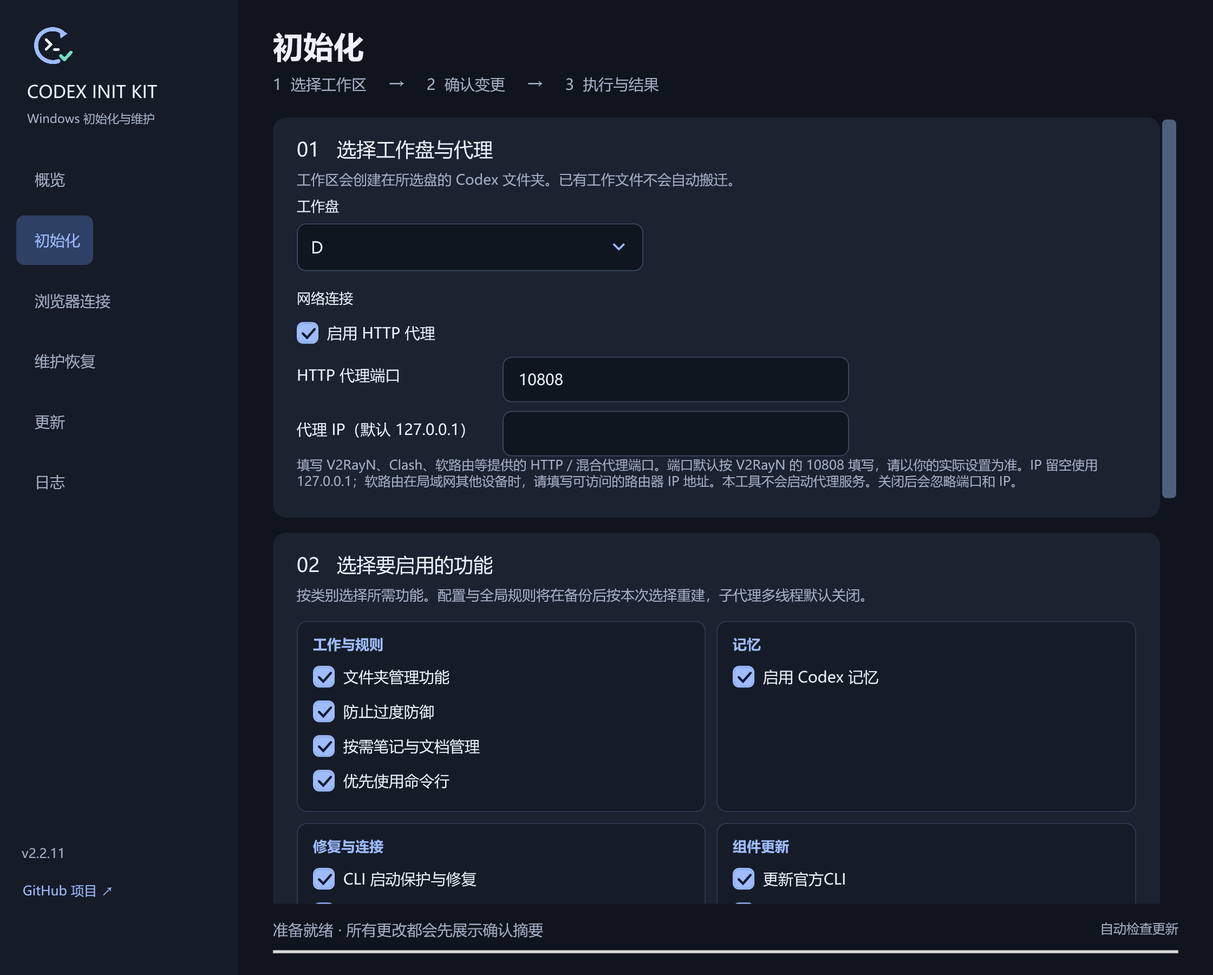
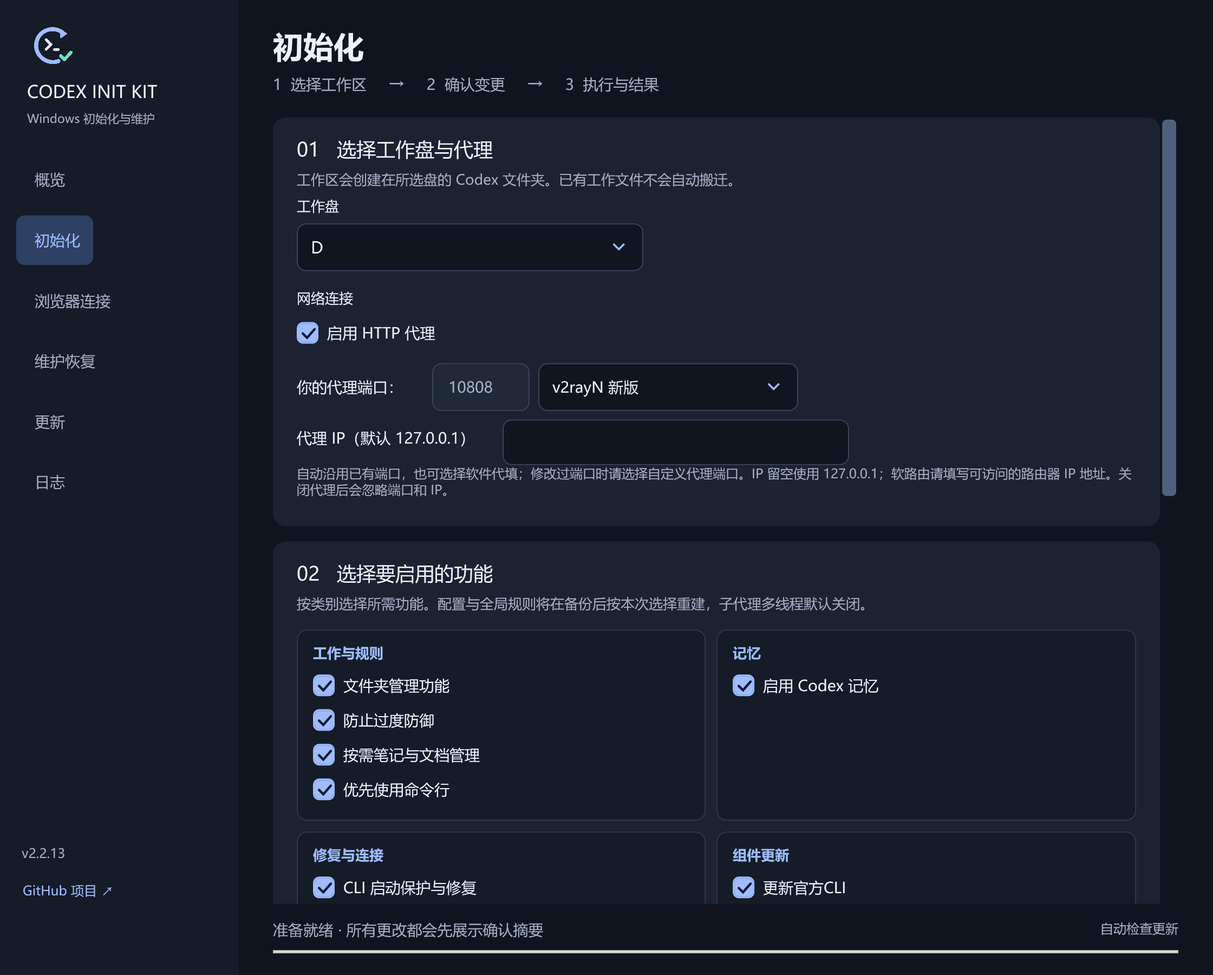
feat: release v2.2.13 proxy port presets and inheritance

diff --git a/app/MainWindow.cs b/app/MainWindow.cs
@@ -30,6 +30,9 @@ public class MainWindow : Window {
     readonly List<Button> navigation=new List<Button>();
     readonly ComboBox drive=new ComboBox();
     readonly TextBox port=new TextBox();
+    readonly ComboBox proxyPortPreset=new ComboBox();
+    readonly TextBlock proxyPortNotice=new TextBlock();
+    string customProxyPort="";
     readonly TextBox proxyHost=new TextBox();
     readonly CheckBox guard=new CheckBox();
     readonly CheckBox proxyEnabled=new CheckBox(),folderManagement=new CheckBox(),subagents=new CheckBox(),cuaRepair=new CheckBox();
@@ -95,7 +98,7 @@ public class MainWindow : Window {
         ApplyCliDetection(new Dictionary<string,object>{{"runtimeMode","OfficialStandalone"}});if(cliStandalone.IsChecked!=true||cliNative.IsChecked==true||Convert.ToString(Options()["cliMode"])!="auto"||!InitSummary().Contains("初始化后使用的 CLI：官方独立 CLI"))throw new InvalidDataException("Detected standalone CLI was not selected automatically");
         cliNative.IsChecked=true;ApplyCliDetection(new Dictionary<string,object>{{"runtimeMode","OfficialStandalone"}});if(cliNative.IsChecked!=true||Convert.ToString(Options()["cliMode"])!="desktop-native")throw new InvalidDataException("Status refresh replaced the manual CLI choice");Navigate("概览");Navigate("初始化");if(cliNative.IsChecked!=true)throw new InvalidDataException("Navigation lost the selected CLI");
         cliChoiceManual=false;ApplyCliDetection(new Dictionary<string,object>{{"runtimeMode","Unknown"}});rejected=false;try{RequireCliChoice();}catch(InvalidOperationException){rejected=true;}if(!rejected||cliNative.IsChecked==true||cliStandalone.IsChecked==true)throw new InvalidDataException("Unknown CLI mode silently selected a default");cliStandalone.IsChecked=true;RequireCliChoice();if(Convert.ToString(Options()["cliMode"])!="official-standalone")throw new InvalidDataException("Manual selection after unknown detection failed");ResetCliChoice();
-        Navigate("浏览器连接");var browserSettings=(StackPanel)((Border)content.Children[1]).Child;var browserInputs=browserSettings.Children.OfType<TextBox>().ToArray();var browserToggle=browserSettings.Children.OfType<CheckBox>().First();var browserButtons=browserSettings.Children.OfType<WrapPanel>().SelectMany(x=>x.Children.OfType<Button>()).Select(x=>Convert.ToString(x.Content)).ToArray();if(!browserButtons.Contains("修复并启动 Codex")||browserInputs.Length!=2)throw new InvalidOperationException("Browser startup entry is missing");browserInputs[0].Text="192.168.5.8";browserInputs[1].Text="7890";if(ProxyHost()!="192.168.5.8"||Port()!=7890)throw new InvalidOperationException("Browser proxy settings did not synchronize");browserToggle.IsChecked=false;if(proxyEnabled.IsChecked!=false)throw new InvalidOperationException("Browser proxy switch did not synchronize");browserToggle.IsChecked=true;proxyHost.Text="";port.Text="10808";
+        Navigate("浏览器连接");var browserSettings=(StackPanel)((Border)content.Children[1]).Child;var browserButtons=browserSettings.Children.OfType<WrapPanel>().SelectMany(x=>x.Children.OfType<Button>()).Select(x=>Convert.ToString(x.Content)).ToArray();if(!browserButtons.Contains("修复并启动 Codex")||!browserSettings.IsAncestorOf(port)||!browserSettings.IsAncestorOf(proxyPortPreset))throw new InvalidOperationException("Browser startup entry or proxy inputs are missing");proxyHost.Text="192.168.5.8";proxyPortPreset.SelectedIndex=5;if(ProxyHost()!="192.168.5.8"||Port()!=7890||!port.IsReadOnly)throw new InvalidOperationException("Browser proxy settings did not synchronize");proxyEnabled.IsChecked=false;if(port.IsEnabled||proxyPortPreset.IsEnabled)throw new InvalidOperationException("Browser proxy switch did not disable its inputs");proxyEnabled.IsChecked=true;proxyHost.Text="";proxyPortPreset.SelectedIndex=0;
         VerifyMaintenanceModes();
         memories.IsChecked=false;if((bool)Options()["memories"]||!InitSummary().Contains("关闭，保留已有记忆文件"))throw new InvalidDataException("Memory selection was not preserved");memories.IsChecked=true;
         if(!githubMirrors.IsChecked.Value||NetworkOptions().customGithubMirror.Length!=0)throw new InvalidDataException("GitHub mirror defaults changed");
@@ -157,7 +160,19 @@ public class MainWindow : Window {
         drive.ItemsSource=DriveInfo.GetDrives().Where(x=>x.DriveType==DriveType.Fixed && x.IsReady).Select(x=>x.Name.Substring(0,1)).ToArray(); drive.SelectedItem="D"; if(drive.SelectedIndex<0) drive.SelectedIndex=0;
         drive.Style=(Style)Resources["KitCombo"];drive.FontSize=15;drive.Width=320;drive.HorizontalAlignment=HorizontalAlignment.Left;
         foreach(var input in new[]{port,proxyHost})input.Style=(Style)Resources["KitInput"];
-        port.Text="10808";port.Width=320;port.HorizontalAlignment=HorizontalAlignment.Left;
+        port.Width=90;port.Height=44;port.MaxLength=5;port.HorizontalAlignment=HorizontalAlignment.Left;
+        proxyPortPreset.Style=(Style)Resources["KitCombo"];proxyPortPreset.Width=240;
+        proxyPortPreset.ItemsSource=ProxyPortSettings.Presets;
+        proxyPortNotice.Foreground=B("#E9C779");proxyPortNotice.FontSize=12;proxyPortNotice.TextWrapping=TextWrapping.Wrap;proxyPortNotice.Margin=new Thickness(0,0,0,8);proxyPortNotice.Visibility=Visibility.Collapsed;
+        proxyPortPreset.SelectionChanged+=(s,e)=>{
+            var selected=(ProxyPortPreset)proxyPortPreset.SelectedItem;
+            port.IsReadOnly=selected.Port!=0;
+            port.Text=selected.Port==0?customProxyPort:selected.Port.ToString();
+            port.Background=port.IsReadOnly?B("#202938"):B("#101620");port.Foreground=port.IsReadOnly?MutedBrush:TextBrush;
+            proxyPortNotice.Visibility=Visibility.Collapsed;
+        };
+        port.TextChanged+=(s,e)=>{if(!port.IsReadOnly){customProxyPort=port.Text;proxyPortNotice.Visibility=Visibility.Collapsed;}};
+        proxyPortPreset.SelectedIndex=0;
         proxyHost.Text="";proxyHost.Width=320;proxyHost.HorizontalAlignment=HorizontalAlignment.Left;proxyHost.ToolTip="留空使用 127.0.0.1。软路由在局域网其他设备时，请填写可访问的路由器 IP 地址；本工具不会启动代理服务。";
         var checks=new[]{proxyEnabled,folderManagement,antiOverDefense,workJournal,commandLineFirst,memories,guard,cuaRepair,browserRepair,officialCliUpdate,desktopUpdate,subagents};var labels=new[]{"启用 HTTP 代理","文件夹管理功能","防止过度防御","按需笔记与文档管理","优先使用命令行","启用 Codex 记忆","CLI 启动保护与修复","CUA 检查与修复","浏览器链接修复","更新官方CLI","更新桌面版（含原生CLI）","子代理多线程"};for(int i=0;i<checks.Length;i++){checks[i].Style=(Style)Resources["KitCheck"];checks[i].Content=labels[i];checks[i].IsChecked=checks[i]!=subagents;}
         cliNative.Content="桌面版原生 CLI";cliStandalone.Content="官方独立 CLI";foreach(var choice in new[]{cliNative,cliStandalone}){choice.GroupName="InitializationCliMode";choice.Style=(Style)Resources["KitCliChoice"];choice.Checked+=(s,e)=>{if(!applyingCliDetection){cliChoiceManual=true;UpdateCliDetectionHint();}};choice.Click+=(s,e)=>{cliChoiceManual=true;UpdateCliDetectionHint();};}
@@ -173,7 +188,7 @@ public class MainWindow : Window {
         githubMirrors.IsChecked=network.githubMirrorEnabled;githubCustomMirror.Text=network.customGithubMirror;githubCustomMirror.IsEnabled=network.githubMirrorEnabled;
         githubMirrors.Checked+=(a,b)=>githubCustomMirror.IsEnabled=true;githubMirrors.Unchecked+=(a,b)=>githubCustomMirror.IsEnabled=false;
         githubLogView.IsReadOnly=true;githubLogView.TextWrapping=TextWrapping.Wrap;githubLogView.Height=150;githubLogView.VerticalScrollBarVisibility=ScrollBarVisibility.Auto;githubLogView.Background=B("#101620");githubLogView.Foreground=TextBrush;githubLogView.BorderThickness=new Thickness(0);githubLogView.Padding=new Thickness(10);
-        proxyEnabled.Checked+=(s,e)=>{port.IsEnabled=true;proxyHost.IsEnabled=true;};proxyEnabled.Unchecked+=(s,e)=>{port.IsEnabled=false;proxyHost.IsEnabled=false;};
+        proxyEnabled.Checked+=(s,e)=>{proxyPortPreset.IsEnabled=port.IsEnabled=proxyHost.IsEnabled=true;};proxyEnabled.Unchecked+=(s,e)=>{proxyPortPreset.IsEnabled=port.IsEnabled=proxyHost.IsEnabled=false;};
         parentEffort.Style=(Style)Resources["KitCombo"];childEffort.Style=(Style)Resources["KitCombo"];foreach(var input in new[]{parentModel,childModel,parentEffort,childEffort})input.Margin=new Thickness(0,0,0,10);
         var effortText=new FrameworkElementFactory(typeof(TextBlock));effortText.SetBinding(TextBlock.TextProperty,new System.Windows.Data.Binding{Converter=new EffortLabels()});var effortTemplate=new DataTemplate{VisualTree=effortText};parentEffort.ItemTemplate=effortTemplate;childEffort.ItemTemplate=effortTemplate;
         parentEffort.ItemsSource=ModelCatalog.CommonEfforts;parentEffort.SelectedItem="medium";childEffort.ItemsSource=ModelCatalog.CommonEfforts;childEffort.SelectedItem="medium";
@@ -185,11 +200,34 @@ public class MainWindow : Window {
         modelCheck.Foreground=MutedBrush;modelCheck.TextWrapping=TextWrapping.Wrap;modelCheck.Margin=new Thickness(0,8,0,12);
         subagents.Checked+=(s,e)=>UpdateModelInputs();subagents.Unchecked+=(s,e)=>UpdateModelInputs();
         if(!preview)try{ApplyCurrentModelSettings(CurrentModelSettings.Load(CurrentModelSettings.CodexHome()));}catch(Exception ex){modelSettingsError="无法读取当前模型设置："+ex.Message+"。请处理后重新打开工具。";}
+        if(!preview)LoadCurrentProxyPort();
         UpdateModelInputs();
         Closing+=(s,e)=>{if(busy){e.Cancel=true; MessageBox.Show(this,"操作正在执行，请等待结果后再关闭窗口。","正在执行",MessageBoxButton.OK,MessageBoxImage.Information);}};
         Navigate("概览"); Loaded+=async(s,e)=>{if(!preview) await Task.WhenAll(Run("status","读取当前状态",false),CheckUpdates(true));};
     }
     static Brush B(string hex) { return (Brush)new BrushConverter().ConvertFromString(hex); }
+    void LoadCurrentProxyPort() {
+        try {
+            var saved=ProxyPortSettings.Load(CurrentModelSettings.CodexHome());
+            var preset=ProxyPortSettings.Presets.FirstOrDefault(item=>item.Port==saved);
+            if(preset==null){customProxyPort=saved.ToString();preset=ProxyPortSettings.Presets.Last();}
+            proxyPortPreset.SelectedItem=preset;
+        } catch(Exception ex) {
+            proxyPortPreset.SelectedItem=ProxyPortSettings.Presets.Last();
+            proxyPortNotice.Text="无法读取已有代理端口："+DesktopLocalization.ExceptionText(ex)+" 请重新选择或填写端口。";
+            proxyPortNotice.Visibility=Visibility.Visible;
+        }
+    }
+    Grid ProxyPortRow() {
+        var row=new Grid{HorizontalAlignment=HorizontalAlignment.Left,Margin=new Thickness(0,6,0,8)};
+        row.ColumnDefinitions.Add(new ColumnDefinition{Width=new GridLength(125)});
+        row.ColumnDefinitions.Add(new ColumnDefinition{Width=GridLength.Auto});
+        row.ColumnDefinitions.Add(new ColumnDefinition{Width=GridLength.Auto});
+        row.Children.Add(new TextBlock{Text="你的代理端口：",Foreground=TextBrush,VerticalAlignment=VerticalAlignment.Center});
+        port.Margin=new Thickness(0);Grid.SetColumn(port,1);row.Children.Add(port);
+        proxyPortPreset.Margin=new Thickness(8,0,0,0);Grid.SetColumn(proxyPortPreset,2);row.Children.Add(proxyPortPreset);
+        return row;
+    }
     static TextBlock T(string text,int size,Brush color) { return new TextBlock{Text=text,FontSize=size,Foreground=color,TextWrapping=TextWrapping.Wrap,Margin=new Thickness(0,0,0,8)}; }
     Button Button(string label,Action action,bool primary) {
         var b=new Button{Content=label,Background=primary?Accent:B("#293348"),Foreground=primary?B("#101B31"):TextBrush,BorderThickness=new Thickness(0),Padding=new Thickness(18,10,18,10),Cursor=System.Windows.Input.Cursors.Hand,HorizontalAlignment=HorizontalAlignment.Left,Margin=new Thickness(0,4,10,4)};
@@ -220,7 +258,7 @@ public class MainWindow : Window {
         parent.Children.Add(new Border{Background=B("#151C28"),CornerRadius=new CornerRadius(9),Padding=new Thickness(14,8,14,10),Child=optional});
     }
     void Row(StackPanel parent,params UIElement[] items) { var row=new WrapPanel(); foreach(var item in items)row.Children.Add(item); parent.Children.Add(row); }
-    void Navigate(string name) { logViewport.Detach();foreach(var control in new FrameworkElement[]{drive,port,proxyHost,guard,log,githubMirrors,githubCustomMirror,githubLogView,proxyEnabled,folderManagement,antiOverDefense,workJournal,commandLineFirst,memories,subagents,cuaRepair,browserRepair,officialCliUpdate,desktopUpdate,cliNative,cliStandalone,cliDetectionHint,parentModel,childModel,parentEffort,childEffort,modelCheck}) { var parent=control.Parent as Panel; if(parent!=null)parent.Children.Remove(control); } page=name; content.Children.Clear(); heading.Text=name; foreach(var b in navigation){b.Background=Convert.ToString(b.Content)==name?B("#2E4063"):Brushes.Transparent; b.Foreground=Convert.ToString(b.Content)==name?Accent:MutedBrush;}
+    void Navigate(string name) { logViewport.Detach();foreach(var control in new FrameworkElement[]{drive,port,proxyPortPreset,proxyPortNotice,proxyHost,guard,log,githubMirrors,githubCustomMirror,githubLogView,proxyEnabled,folderManagement,antiOverDefense,workJournal,commandLineFirst,memories,subagents,cuaRepair,browserRepair,officialCliUpdate,desktopUpdate,cliNative,cliStandalone,cliDetectionHint,parentModel,childModel,parentEffort,childEffort,modelCheck}) { var parent=control.Parent as Panel; if(parent!=null)parent.Children.Remove(control); } page=name; content.Children.Clear(); heading.Text=name; foreach(var b in navigation){b.Background=Convert.ToString(b.Content)==name?B("#2E4063"):Brushes.Transparent; b.Foreground=Convert.ToString(b.Content)==name?Accent:MutedBrush;}
         if(name=="概览")Overview(); else if(name=="初始化")Wizard(); else if(name=="浏览器连接")BrowserConnection(); else if(name=="维护恢复")Maintenance(); else if(name=="更新")Updates(); else LogsPage();
         if(log.Parent!=null)logViewport.Attach();
     }
@@ -293,9 +331,9 @@ public class MainWindow : Window {
             var p=Card("01   选择工作盘与代理","工作区会创建在所选盘的 Codex 文件夹。已有工作文件不会自动搬迁。");
             p.Children.Add(T("工作盘",13,TextBrush));p.Children.Add(drive);p.Children.Add(T("\n网络连接",13,TextBrush));p.Children.Add(proxyEnabled);
             var proxyRows=new StackPanel{Margin=new Thickness(0,6,0,0)};
-            var portRow=new StackPanel{Orientation=Orientation.Horizontal,Margin=new Thickness(0,0,0,8)};portRow.Children.Add(new TextBlock{Text="HTTP 代理端口",Width=180,Foreground=TextBrush,VerticalAlignment=VerticalAlignment.Center,Margin=new Thickness(0,0,10,8)});portRow.Children.Add(port);proxyRows.Children.Add(portRow);
+            proxyRows.Children.Add(ProxyPortRow());proxyRows.Children.Add(proxyPortNotice);
             var hostRow=new StackPanel{Orientation=Orientation.Horizontal};hostRow.Children.Add(new TextBlock{Text="代理 IP（默认 127.0.0.1）",Width=180,Foreground=TextBrush,VerticalAlignment=VerticalAlignment.Center,Margin=new Thickness(0,0,10,8)});hostRow.Children.Add(proxyHost);proxyRows.Children.Add(hostRow);p.Children.Add(proxyRows);
-            p.Children.Add(T("填写 V2RayN、Clash、软路由等提供的 HTTP／混合代理端口。端口默认按 V2RayN 的 10808 填写，请以你的实际设置为准。IP 留空使用 127.0.0.1；软路由在局域网其他设备时，请填写可访问的路由器 IP 地址。本工具不会启动代理服务。关闭后会忽略端口和 IP。",12,MutedBrush));
+            p.Children.Add(T("自动沿用已有端口，也可选择软件代填；修改过端口时请选择自定义代理端口。IP 留空使用 127.0.0.1；软路由请填写可访问的路由器 IP 地址。关闭代理后会忽略端口和 IP。",12,MutedBrush));
             var features=Card("02   选择要启用的功能","按类别选择所需功能。配置与全局规则将在备份后按本次选择重建，子代理多线程默认关闭。");FeatureGroups(features);
             var cliLabel=T("初始化后使用的 CLI",13,TextBrush);cliLabel.Margin=new Thickness(0,16,0,4);features.Children.Add(cliLabel);Row(features,cliNative,cliStandalone);features.Children.Add(cliDetectionHint);features.Children.Add(T("独立 CLI 缺失时会先准备组件；启动保护与更新选项可单独选择。",12,MutedBrush));
             var models=Card("03   模型设置","默认读取当前全局模型设置，未设置的项目使用默认值；可通过下拉框更换。思考强度随模型切换，实际调用权限取决于账号。");ModelSelectionRow(models,"父模型",parentModel,parentEffort);ModelSelectionRow(models,"子模型",childModel,childEffort);models.Children.Add(modelCheck);models.Children.Add(Button("检查所选配置",()=>CheckModels(),false));
@@ -449,12 +487,9 @@ public class MainWindow : Window {
         if(browserReport!=null&&status!=null&&Core.Value(browserReport,"desktopVersion","")!=Core.Value(status,"desktopVersion",""))environment.Children.Add(T("应用版本已变化：下方旧检查结果已失效，请重新检查浏览器连接。",13,B("#E9C779")));
         foreach(var item in new[]{new[]{"desktopVersion","最近检查的桌面版"},new[]{"runtime","浏览器控制运行时"},new[]{"proxy","最近检查代理"},new[]{"patch","补丁状态"},new[]{"checkedAt","最近检查"}})environment.Children.Add(T(item[1]+"："+DesktopLocalization.TranslateText(Core.Value(browserReport,item[0],"未检查")),13,MutedBrush));
         var settings=Card("代理设置","与初始化页面同步。使用代理软件提供的 HTTP／混合端口；关闭代理后，修复操作会恢复本工具管理的入口为直连。");
-        var enabled=new CheckBox{Content="启用 HTTP 代理",IsChecked=proxyEnabled.IsChecked,Style=(Style)Resources["KitCheck"]};
-        var hostInput=new TextBox{Text=proxyHost.Text,Style=(Style)Resources["KitInput"]};var portInput=new TextBox{Text=port.Text,Style=(Style)Resources["KitInput"]};
-        hostInput.IsEnabled=portInput.IsEnabled=enabled.IsChecked==true;
-        enabled.Checked+=(a,b)=>{proxyEnabled.IsChecked=true;hostInput.IsEnabled=portInput.IsEnabled=true;};enabled.Unchecked+=(a,b)=>{proxyEnabled.IsChecked=false;hostInput.IsEnabled=portInput.IsEnabled=false;};
-        hostInput.TextChanged+=(a,b)=>proxyHost.Text=hostInput.Text;portInput.TextChanged+=(a,b)=>port.Text=portInput.Text;
-        settings.Children.Add(enabled);settings.Children.Add(T("代理 IP（留空为 127.0.0.1）",12,MutedBrush));settings.Children.Add(hostInput);settings.Children.Add(T("HTTP 代理端口",12,MutedBrush));settings.Children.Add(portInput);
+        settings.Children.Add(proxyEnabled);settings.Children.Add(ProxyPortRow());settings.Children.Add(proxyPortNotice);
+        settings.Children.Add(T("自动沿用已有端口，也可选择软件代填；修改过端口时请选择自定义代理端口。",12,MutedBrush));
+        settings.Children.Add(T("代理 IP（留空为 127.0.0.1）",12,MutedBrush));settings.Children.Add(proxyHost);
         Row(settings,Button("修复并启动 Codex",async()=>await Run("browser-start-prepare","修复并启动 Codex",true),true),Button("检查连接",async()=>await Run("browser-check","检查浏览器连接",false),false),Button("修复连接",async()=>await Run("browser-repair","修复浏览器连接",true),false),Button("恢复原始文件",async()=>await Run("browser-rollback","恢复浏览器入口",true),false),Button("复制连接测试指令",()=>{Clipboard.SetText("请使用浏览器控制工具，新建独立测试标签页访问 https://example.com，读取页面标题和 DOM；成功后关闭本次新建的测试标签。保留我的其他 Chrome 标签页。请分别报告连接、页面读取和关闭结果，不要仅用 HTTP 状态判断连接成功。");banner.Text="已复制 · 重启 Codex 后在新对话中运行测试";},false));
         settings.Children.Add(T("通过此按钮启动时会先检查并按需修复；原来的 Codex 图标不会经过此检查。",12,MutedBrush));
         var checks=Card("分项验证","HTTP 403 只表示服务可达，不表示 Chrome 已连接。环境探针验证 Node 与子进程继承，真实 CUA 连接仍需重启后测试。");

diff --git a/tests/ProxyPortSettings.Tests.cs b/tests/ProxyPortSettings.Tests.cs
@@ -1,0 +1,105 @@
+using System;
+using System.IO;
+using System.Linq;
+using System.Reflection;
+using System.Text;
+using System.Windows;
+using System.Windows.Controls;
+
+namespace CodexKit {
+public static class ProxyPortSettingsTests {
+    const BindingFlags Private=BindingFlags.NonPublic|BindingFlags.Instance;
+    static void Assert(bool value,string message){if(!value)throw new InvalidDataException(message);}
+    static void Write(string path,string text){File.WriteAllText(path,text,new UTF8Encoding(false));}
+    static T Field<T>(MainWindow window,string name){return (T)typeof(MainWindow).GetField(name,Private).GetValue(window);}
+    static object Call(MainWindow window,string name,params object[] args){return typeof(MainWindow).GetMethod(name,Private).Invoke(window,args);}
+
+    public static void Run(string root) {
+        var home=Path.Combine(root,"proxy-port-settings");Directory.CreateDirectory(home);
+        var path=Path.Combine(home,".env");
+        Assert(ProxyPortSettings.Load(home)==10808,"Missing proxy config did not use v2rayN defaults.");
+        foreach(var preset in ProxyPortSettings.Presets.Where(item=>item.Port>0)){
+            Write(path,"HTTP_PROXY=http://127.0.0.1:"+preset.Port+"\n");
+            Assert(ProxyPortSettings.Load(home)==preset.Port,"A preset port could not be inherited.");
+        }
+        foreach(var entry in new[]{
+            new[]{"OTHER=value\n","10808"},
+            new[]{"HTTP_PROXY=\nHTTPS_PROXY='http://127.0.0.1:3067' # rule\n","3067"},
+            new[]{"HTTP_PROXY=\"\"\nHTTPS_PROXY=\"http://[::1]:7897\"\n","7897"},
+            new[]{"http_proxy = http://127.0.0.1:3066 # global\n","3066"},
+            new[]{"export HTTP_PROXY='http://127.0.0.1:54321/'\n","54321"},
+            new[]{"HTTP_PROXY=http://127.0.0.1:1\nHTTPS_PROXY=invalid\n","1"},
+            new[]{"HTTPS_PROXY=http://127.0.0.1:65535\n","65535"},
+            new[]{"HTTP_PROXY=http://127.0.0.1:10808\nHTTP_PROXY=http://127.0.0.1:2080\n","2080"}
+        }){
+            Write(path,entry[0]);var before=File.ReadAllBytes(path);
+            Assert(ProxyPortSettings.Load(home)==Int32.Parse(entry[1]),"Quoted, empty or alternate proxy config was not parsed correctly.");
+            Assert(before.SequenceEqual(File.ReadAllBytes(path)),"Reading proxy config changed it.");
+        }
+        foreach(var value in new[]{"invalid","http://127.0.0.1","http://127.0.0.1:0","http://127.0.0.1:65536","http://127.0.0.1:7897/path","'unterminated"}){
+            Write(path,"HTTP_PROXY="+value+"\nHTTPS_PROXY=http://127.0.0.1:3067\n");
+            bool rejected=false;try{ProxyPortSettings.Load(home);}catch(InvalidDataException){rejected=true;}
+            Assert(rejected,"Invalid saved proxy silently became a different port.");
+        }
+        File.Delete(path);Directory.CreateDirectory(path);
+        bool unreadable=false;try{ProxyPortSettings.Load(home);}catch(IOException){unreadable=true;}catch(UnauthorizedAccessException){unreadable=true;}
+        Assert(unreadable,"Unreadable saved proxy config silently used defaults.");
+        Directory.Delete(path);
+    }
+
+    public static void VerifyWindow(string root) {
+        var home=Path.Combine(root,"proxy-port-settings");var path=Path.Combine(home,".env");
+        var previous=Environment.GetEnvironmentVariable("CODEX_HOME",EnvironmentVariableTarget.Process);
+        try {
+            Environment.SetEnvironmentVariable("CODEX_HOME",home,EnvironmentVariableTarget.Process);
+            foreach(var preset in ProxyPortSettings.Presets.Where(item=>item.Port>0)){
+                Write(path,"HTTP_PROXY=http://127.0.0.1:"+preset.Port+"\n");
+                var window=new MainWindow(false);
+                try{
+                    Assert(Field<ComboBox>(window,"proxyPortPreset").SelectedItem==preset&&Field<TextBox>(window,"port").IsReadOnly,"Startup did not reverse-map a saved preset.");
+                    Assert((int)Call(window,"Port")==preset.Port,"Startup update requests would use a stale port.");
+                }finally{window.Close();}
+            }
+            Write(path,"HTTP_PROXY=http://127.0.0.1:54321\n");
+            var inherited=new MainWindow(false);
+            try{Assert(Field<ComboBox>(inherited,"proxyPortPreset").SelectedIndex==8&&Field<TextBox>(inherited,"port").Text=="54321"&&!Field<TextBox>(inherited,"port").IsReadOnly,"Unknown saved port did not become an editable custom value.");}
+            finally{inherited.Close();}
+            Write(path,"HTTP_PROXY=invalid\n");
+            var invalid=new MainWindow(false);
+            try{Assert(Field<ComboBox>(invalid,"proxyPortPreset").SelectedIndex==8&&Field<TextBox>(invalid,"port").Text==""&&Field<TextBlock>(invalid,"proxyPortNotice").Visibility==Visibility.Visible,"Invalid saved proxy did not show an empty custom field and warning.");}
+            finally{invalid.Close();}
+        }finally{Environment.SetEnvironmentVariable("CODEX_HOME",previous,EnvironmentVariableTarget.Process);}
+
+        var preview=new MainWindow(true){Left=-20000,Top=-20000,Opacity=0,ShowInTaskbar=false};
+        preview.Show();
+        try{
+            var combo=Field<ComboBox>(preview,"proxyPortPreset");var port=Field<TextBox>(preview,"port");var enabled=Field<CheckBox>(preview,"proxyEnabled");
+            Assert(combo.SelectedIndex==0&&port.Text=="10808"&&port.IsReadOnly,"Fresh window did not default to v2rayN.");
+            combo.SelectedIndex=8;Assert(port.Text==""&&!port.IsReadOnly,"First custom selection was not empty and editable.");
+            port.Text="12345";combo.SelectedIndex=2;
+            Assert(port.Text=="3067"&&port.IsReadOnly,"Karing selection did not fill and lock the port.");
+            Call(preview,"Navigate","浏览器连接");
+            Assert(combo.SelectedIndex==2&&port.IsReadOnly&&port.Text=="3067","Browser navigation lost the proxy choice.");
+            combo.SelectedIndex=8;Assert(port.Text=="12345"&&!port.IsReadOnly,"Returning to custom lost the previous value.");
+            enabled.IsChecked=false;Assert(!combo.IsEnabled&&!port.IsEnabled&&!Field<TextBox>(preview,"proxyHost").IsEnabled&&(int)Call(preview,"Port")==0,"Disabled proxy did not disable and ignore all inputs.");
+            enabled.IsChecked=true;Assert(combo.IsEnabled&&port.IsEnabled&&!port.IsReadOnly,"Enabling proxy lost the custom input state.");
+            foreach(var value in new[]{"","0","65536","abc"}){
+                port.Text=value;bool rejected=false;try{Call(preview,"Port");}catch(TargetInvocationException ex){rejected=ex.InnerException is InvalidOperationException;}
+                Assert(rejected,"Invalid custom proxy port was accepted.");
+            }
+            combo.SelectedIndex=5;Call(preview,"Navigate","初始化");
+            Assert(port.Text=="7890"&&port.IsReadOnly&&Convert.ToString(Call(preview,"InitSummary")).Contains("127.0.0.1:7890"),"Confirmation lost the selected proxy port.");
+            foreach(var page in new[]{"初始化","浏览器连接"}){
+                Call(preview,"Navigate",page);
+                foreach(var width in new[]{940.0,1120.0}){
+                    preview.Width=width;
+                    var view=(FrameworkElement)preview.Content;
+                    view.Measure(new Size(width,1200));view.Arrange(new Rect(0,0,width,1200));view.UpdateLayout();
+                    var row=(Grid)combo.Parent;var content=(FrameworkElement)Field<StackPanel>(preview,"content");
+                    Assert(row.ActualWidth<=content.ActualWidth-44&&Math.Abs(combo.ActualHeight-port.ActualHeight)<1&&Math.Abs(port.ActualWidth-90)<1,"Proxy row layout at "+width+": row "+row.ActualWidth+", content "+content.ActualWidth+", heights "+combo.ActualHeight+"/"+port.ActualHeight+", port "+port.ActualWidth);
+                }
+            }
+        }finally{preview.Close();}
+    }
+}
+}

diff --git a/app/Program.cs b/app/Program.cs
@@ -52,6 +52,7 @@ public static class Program {
             DesktopLocalizationTests.Run(dir);checks["chinese_error_messages"]=true;
             GitHubTransportTests.Run(dir);checks["github_mirror_transport"]=true;
             CurrentModelSettingsTests.Run(dir);checks["current_model_settings"]=true;
+            ProxyPortSettingsTests.Run(dir);checks["proxy_port_settings"]=true;
             var logo=Brand.Logo();if(logo.PixelWidth!=512||logo.PixelHeight!=512)throw new InvalidDataException("Invalid logo resource");checks["logo_resource"]=true;
             foreach(var name in new[]{"init.cmd","guard.cmd","cua.cmd","Backend.ps1","ConfigCompatibility.cs","InitializationPreflight.ps1","InitializationPreflight.Tests.ps1","InitConfigAdapter.Tests.ps1","Backend220.ps1","Backend.Tests.ps1","Backend220.Tests.ps1","BrowserStartup.ps1","BrowserStartup.Tests.ps1","DesktopCoreRecovery.ps1","DesktopCoreRecovery.Tests.ps1","RuntimeDiscovery.Tests.ps1","AntiOverDefense.md","RtkRules.md","FolderRules.md","SubagentRules.md","HERO-Anti-OverDefense.LICENSE.txt","WorkJournal.md","CommandLineFirst.md","GitHubTransport.cs","GitHubDownload.ps1","DesktopUpdate225.Tests.ps1"}){if(new FileInfo(Path.Combine(dir,name)).Length<100)throw new InvalidDataException("Empty payload: "+name);checks[name]=new{bytes=new FileInfo(Path.Combine(dir,name)).Length,sha256=Core.Hash(Path.Combine(dir,name))};}
             var ps=Path.Combine(Environment.GetFolderPath(Environment.SpecialFolder.System),"WindowsPowerShell","v1.0","powershell.exe");
@@ -86,7 +87,7 @@ public static class Program {
             if(!catalog.Check("fixture-model","high").Contains("核对通过")||catalog.Models["fixture-model"].Efforts[0]!="high")throw new InvalidDataException("Model catalog validation or ordering failed");
             foreach(var bad in new[]{"display name","bad;model","fixture-model\n"})if(ModelCatalog.ValidId(bad))throw new InvalidDataException("Unsafe model catalog ID accepted");
             bool unsupported=false;try{catalog.Check("fixture-model","ultra");}catch(InvalidOperationException){unsupported=true;}if(!unsupported)throw new InvalidDataException("Unsupported model effort accepted");unsupported=false;try{catalog.Check("vendor/custom:v1","max");}catch(InvalidOperationException){unsupported=true;}if(!unsupported)throw new InvalidDataException("Unlisted model accepted");var preset=ModelCatalog.Preset();if(preset.Models.Count!=9||!preset.Models.ContainsKey("gpt-6.1-terra")||!preset.Models["gpt-6.1-terra"].Efforts.Contains("max")||preset.Models["gpt-5.6-luna"].Efforts.Contains("ultra"))throw new InvalidDataException("Preset model choices changed");checks["model_catalog_validation"]=true;
-            var app=new Application(); var window=new MainWindow(true);window.VerifyPages(); checks["pages_and_navigation"]=true;CurrentModelSettingsTests.VerifyWindow(dir);checks["model_settings_startup"]=true;SmoothScrollViewer.Verify();checks["smooth_scrolling"]=true;InitializationFlowTests.Run();checks["initialization_navigation_and_dialogs"]=true;DiagnosticAdvice.Verify();checks["diagnostic_advice"]=true; window.Close();
+            var app=new Application(); var window=new MainWindow(true);window.VerifyPages(); checks["pages_and_navigation"]=true;CurrentModelSettingsTests.VerifyWindow(dir);checks["model_settings_startup"]=true;ProxyPortSettingsTests.VerifyWindow(dir);checks["proxy_port_selection_and_startup"]=true;SmoothScrollViewer.Verify();checks["smooth_scrolling"]=true;InitializationFlowTests.Run();checks["initialization_navigation_and_dialogs"]=true;DiagnosticAdvice.Verify();checks["diagnostic_advice"]=true; window.Close();
             checks["worker_rejects_invalid_operation"]=Core.Worker(new[]{"--worker","invalid",Guid.NewGuid().ToString("N"),"D","10808","0",Core.Sid})==64;
             checks["worker_rejects_invalid_drive"]=Core.Worker(new[]{"--worker","status",Guid.NewGuid().ToString("N"),"&","10808","0",Core.Sid})==64;
             var options=Core.NormalizeOptions(new Dictionary<string,object>{{"folderManagement",false},{"antiOverDefense",false},{"subagents",false},{"cuaRepair",false},{"parentModel","custom-parent"},{"childModel","custom-child"}});if((bool)options["antiOverDefense"]||(bool)options["folderManagement"]||(bool)options["subagents"]||(bool)options["cuaRepair"]||Convert.ToString(options["parentModel"])!="custom-parent")throw new InvalidDataException("Setup options were not preserved");checks["setup_options"]=true;

diff --git a/app/ProxyPortSettings.cs b/app/ProxyPortSettings.cs
@@ -1,0 +1,57 @@
+using System;
+using System.Collections.Generic;
+using System.IO;
+using System.Text;
+using System.Text.RegularExpressions;
+
+namespace CodexKit {
+public sealed class ProxyPortPreset {
+    public readonly string Name;
+    public readonly int Port;
+    public ProxyPortPreset(string name,int port){Name=name;Port=port;}
+    public override string ToString(){return Name;}
+}
+
+public static class ProxyPortSettings {
+    public static readonly ProxyPortPreset[] Presets={
+        new ProxyPortPreset("v2rayN 新版",10808),
+        new ProxyPortPreset("v2rayN 旧版",10809),
+        new ProxyPortPreset("Karing",3067),
+        new ProxyPortPreset("Karing 全代理入口",3066),
+        new ProxyPortPreset("Clash Verge Rev",7897),
+        new ProxyPortPreset("Clash／Mihomo 常见配置",7890),
+        new ProxyPortPreset("Hiddify",12334),
+        new ProxyPortPreset("NekoRay",2080),
+        new ProxyPortPreset("自定义代理端口",0)
+    };
+
+    public static int Load(string home) {
+        string text;
+        try{text=File.ReadAllText(Path.Combine(home,".env"),new UTF8Encoding(false,true));}
+        catch(FileNotFoundException){return 10808;}
+        catch(DirectoryNotFoundException){return 10808;}
+        var values=new Dictionary<string,string>(StringComparer.OrdinalIgnoreCase);
+        foreach(var line in Regex.Split(text,@"\r\n|\n|\r")){
+            var entry=Regex.Match(line,@"^\s*(?:export\s+)?(HTTP_PROXY|HTTPS_PROXY)\s*=\s*(.*)$",RegexOptions.IgnoreCase);
+            if(entry.Success)values[entry.Groups[1].Value]=entry.Groups[2].Value;
+        }
+        var address=ReadValue(values,"HTTP_PROXY");
+        if(address.Length==0)address=ReadValue(values,"HTTPS_PROXY");
+        if(address.Length==0)return 10808;
+        var explicitPort=Regex.Match(address,@"^https?://(?:[^/?#@\s]+@)?(?:\[[^\]\s]+\]|[^:/?#\s]+):(?<port>[0-9]{1,5})/?$",RegexOptions.IgnoreCase);
+        Uri uri;int port;
+        if(!explicitPort.Success||!Uri.TryCreate(address,UriKind.Absolute,out uri)||
+           String.IsNullOrEmpty(uri.Host)||!Int32.TryParse(explicitPort.Groups["port"].Value,out port)||port<1||port>65535)
+            throw new InvalidDataException("已有代理地址的端口无效，请选择预设或填写 1–65535 的自定义端口。");
+        return port;
+    }
+
+    static string ReadValue(Dictionary<string,string> values,string key) {
+        string raw;
+        if(!values.TryGetValue(key,out raw))return "";
+        var match=Regex.Match(raw,@"^(?:""(?<value>[^""\r\n]*)""|'(?<value>[^'\r\n]*)'|(?<value>[^\s""']*))\s*(?:#.*)?$");
+        if(!match.Success)throw new InvalidDataException(".env 中的 "+key+" 格式无法识别，请重新选择代理端口。");
+        return match.Groups["value"].Value.Trim();
+    }
+}
+}

diff --git a/app/Core.cs b/app/Core.cs
@@ -16,7 +16,7 @@ using System.Net.Sockets;
 
 namespace CodexKit {
 public static class Core {
-    public const string Version = "2.2.12";
+    public const string Version = "2.2.13";
     public const string Repository = "BerryFuwawa/codex-init-kit";
     public static readonly string Root = Path.Combine(Environment.GetFolderPath(Environment.SpecialFolder.LocalApplicationData), "CodexInitKit", "Desktop");
     public static string NetworkSettingsPath {get{return Path.Combine(Root,"network.json");}}

diff --git a/app/AssemblyInfo.cs b/app/AssemblyInfo.cs
@@ -2,5 +2,5 @@ using System.Reflection;
 [assembly:AssemblyTitle("Codex Init Kit")]
 [assembly:AssemblyDescription("Codex workspace initialization, CUA repair and startup protection")]
 [assembly:AssemblyProduct("Codex Init Kit Desktop")]
-[assembly:AssemblyVersion("2.2.12.0")]
-[assembly:AssemblyFileVersion("2.2.12.0")]
+[assembly:AssemblyVersion("2.2.13.0")]
+[assembly:AssemblyFileVersion("2.2.13.0")]

diff --git a/docs/Desktop.md b/docs/Desktop.md
@@ -1,4 +1,4 @@
-# Codex Init Kit Desktop 2.2.12
+# Codex Init Kit Desktop 2.2.13
 
 这个程序把初始化、电脑操作组件修复和启动维护放进一个窗口。下载 `CodexInitKit.exe` 就能使用，所需脚本已包含在程序里。
 
@@ -42,7 +42,9 @@ CUA 组件目录为 `%LOCALAPPDATA%\OpenAI\Codex\runtimes\cua_node`。有些 Win
 
 ## 获取与启动
 
-下载 EXE 后即可启动。运行环境为 Windows x64、.NET Framework 4.8 和 Windows PowerShell 5.1。EXE 尚未做代码签名。[v2.2.12 Release](https://github.com/BerryFuwawa/codex-init-kit/releases/tag/v2.2.12) · [下载 CodexInitKit.exe](https://github.com/BerryFuwawa/codex-init-kit/releases/latest/download/CodexInitKit.exe) · [更新说明](Release-2.2.12.md)
+下载 EXE 后即可启动。运行环境为 Windows x64、.NET Framework 4.8 和 Windows PowerShell 5.1。EXE 尚未做代码签名。[v2.2.13 Release](https://github.com/BerryFuwawa/codex-init-kit/releases/tag/v2.2.13) · [下载 CodexInitKit.exe](https://github.com/BerryFuwawa/codex-init-kit/releases/latest/download/CodexInitKit.exe) · [更新说明](Release-2.2.13.md)
+
+火绒在本机对 v2.2.12 和 v2.2.13 开发构建出现过 `Backdoor/Meterpreter.el` 文件查杀记录，检测结论仍待火绒官方复核。系统加固的“利用 PowerShell 执行可疑脚本”是另外一类行为提示，可能在后台检查、初始化或更新时出现。遇到拦截时，请保留检测名称、文件版本和日志，以便核对；SHA-256 只用于确认下载文件与发布文件一致。
 
 正式文件的字节数和 SHA-256 以 [SHA256SUMS.txt](https://github.com/BerryFuwawa/codex-init-kit/releases/latest/download/SHA256SUMS.txt) 及 Release 资产为准；桌面更新清单也绑定相同的 EXE 哈希。
 
@@ -74,7 +76,7 @@ CUA 组件目录为 `%LOCALAPPDATA%\OpenAI\Codex\runtimes\cua_node`。有些 Win
 
 | 项目 | 默认值或位置 |
 | --- | --- |
-| 版本 | `2.2.12` |
+| 版本 | `2.2.13` |
 | 内嵌初始化组件 | `4.8.6` |
 | 内嵌启动保护组件 | `5.2.4` |
 | 工作目录 | `<盘符>:\Codex`；默认选 `D`，不可用时选择第一个可用固定盘 |

diff --git a/docs/Settings.md b/docs/Settings.md
@@ -1,10 +1,26 @@
-# 初始化选项（2.2.10）
+# 初始化选项（2.2.13）
 
 可在初始化页面选择代理、功能和模型，确认页会展示本次实际选择。
 
 ## 代理开关
 
-「初始化」页面的 HTTP 代理默认开启。第一行填写端口，默认 `10808`，按 V2RayN 常用设置预填；第二行填写 IP，留空使用 `127.0.0.1`。也可填 Clash 或其他代理服务提供的 HTTP／混合端口，以实际配置为准。
+「初始化」页面的 HTTP 代理默认开启。端口行按「你的代理端口：」「端口填写框」「下拉菜单」排列。选择软件会代填常用 HTTP／混合端口，填写框变为只读；选择最后一项「自定义代理端口」可填写 `1–65535` 的整数。IP 留空使用 `127.0.0.1`。
+
+| 下拉选项 | 常用端口 |
+|---|---:|
+| v2rayN 新版 | 10808 |
+| v2rayN 旧版 | 10809 |
+| Karing | 3067 |
+| Karing 全代理入口 | 3066 |
+| Clash Verge Rev | 7897 |
+| Clash／Mihomo 常见配置 | 7890 |
+| Hiddify | 12334 |
+| NekoRay | 2080 |
+| 自定义代理端口 | 手动填写 |
+
+打开工具时，先读取当前用户 `CODEX_HOME/.env` 中 `HTTP_PROXY` 的端口，缺失或为空时再读取 `HTTPS_PROXY`。端口匹配预设就选中对应项，否则选中自定义并保留原端口。没有已有配置时默认选中 v2rayN 新版，显示 `10808`；此时首次选择自定义，填写框为空。读取失败或已有端口无效时显示提示，并使用空白自定义输入框。
+
+已有自定义值和本次输入会在切换预设或页面时保留。初始化和「浏览器连接」页共用同一组代理控件。启动自动检查更新前已完成端口读取。界面选择在确认并执行对应操作后写入现有配置，下次打开再按保存的端口选择预设。
 
 取消勾选后不需要填写端口。执行初始化或「维护恢复」中的「更新代理」时，将关闭本工具管理的 Codex 代理配置。修改开关本身不会立即改写 Codex 配置；需确认并执行操作。本工具自己的更新请求也遵循开关。
 

diff --git a/docs/Release-2.2.13.md b/docs/Release-2.2.13.md
@@ -1,0 +1,13 @@
+# Codex Init Kit v2.2.13
+
+本项目完全开源，源码及构建脚本公开，初始化、维护和更新行为均可在仓库中核对。
+
+- 代理端口改为「你的代理端口：」「端口填写框」「下拉菜单」同一行排列。预设涵盖 v2rayN、Karing、Clash Verge Rev、Clash／Mihomo、Hiddify 和 NekoRay，自定义位于最后。
+- 启动时从已有 `.env` 读取端口并选中对应预设。未匹配的端口保留为自定义，没有配置时默认 v2rayN 新版 `10808`。
+- 预设端口只读，自定义可编辑。自定义值、代理开关和页面切换保持同步，初始化及浏览器连接页使用相同控件。
+
+## 验证与已知问题
+
+端口读取、预设映射、自定义输入、跨页同步和紧凑布局已通过隔离专项测试。完整桌面回归中的后台脚本测试被本机火绒拦截，未全部通过。
+
+火绒在本机对 v2.2.12 和 v2.2.13 开发构建出现过 `Backdoor/Meterpreter.el` 文件查杀记录；另有 PowerShell 系统加固提示。检测结论仍待火绒官方复核。
